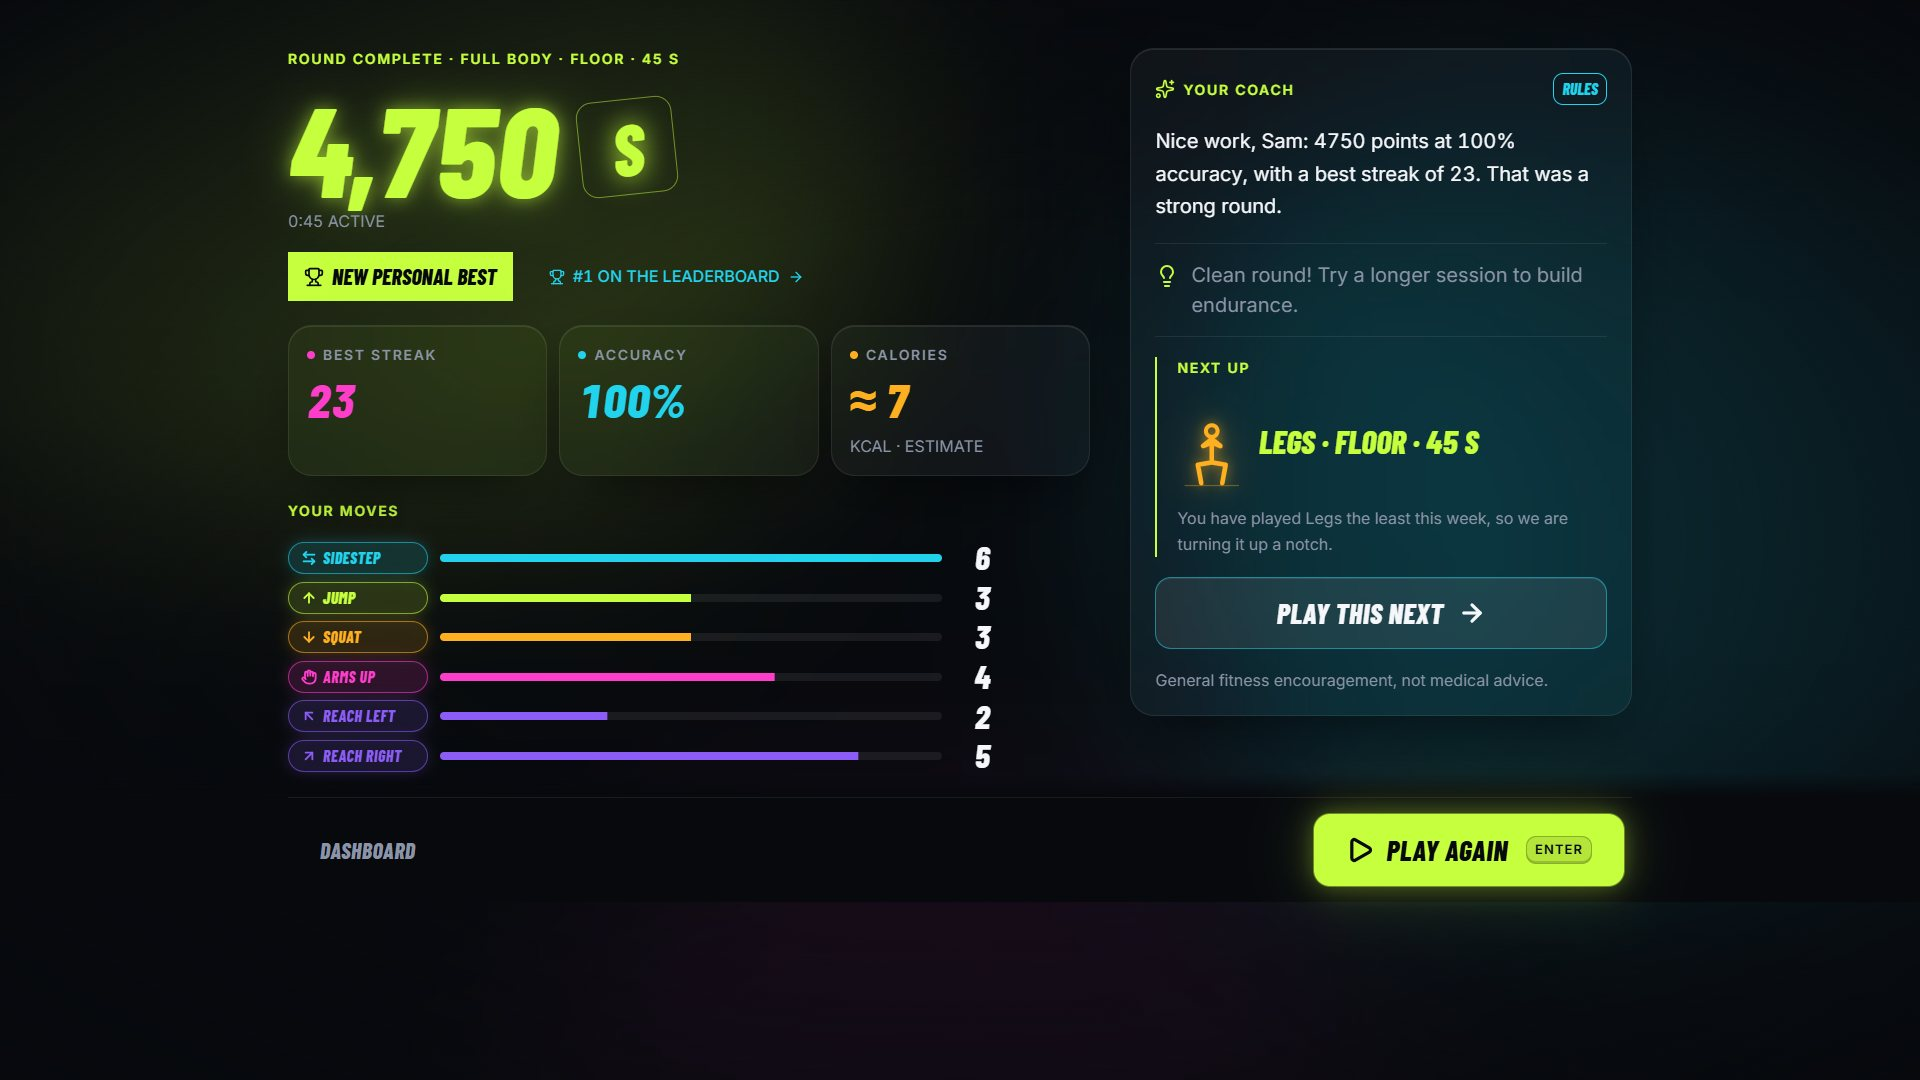
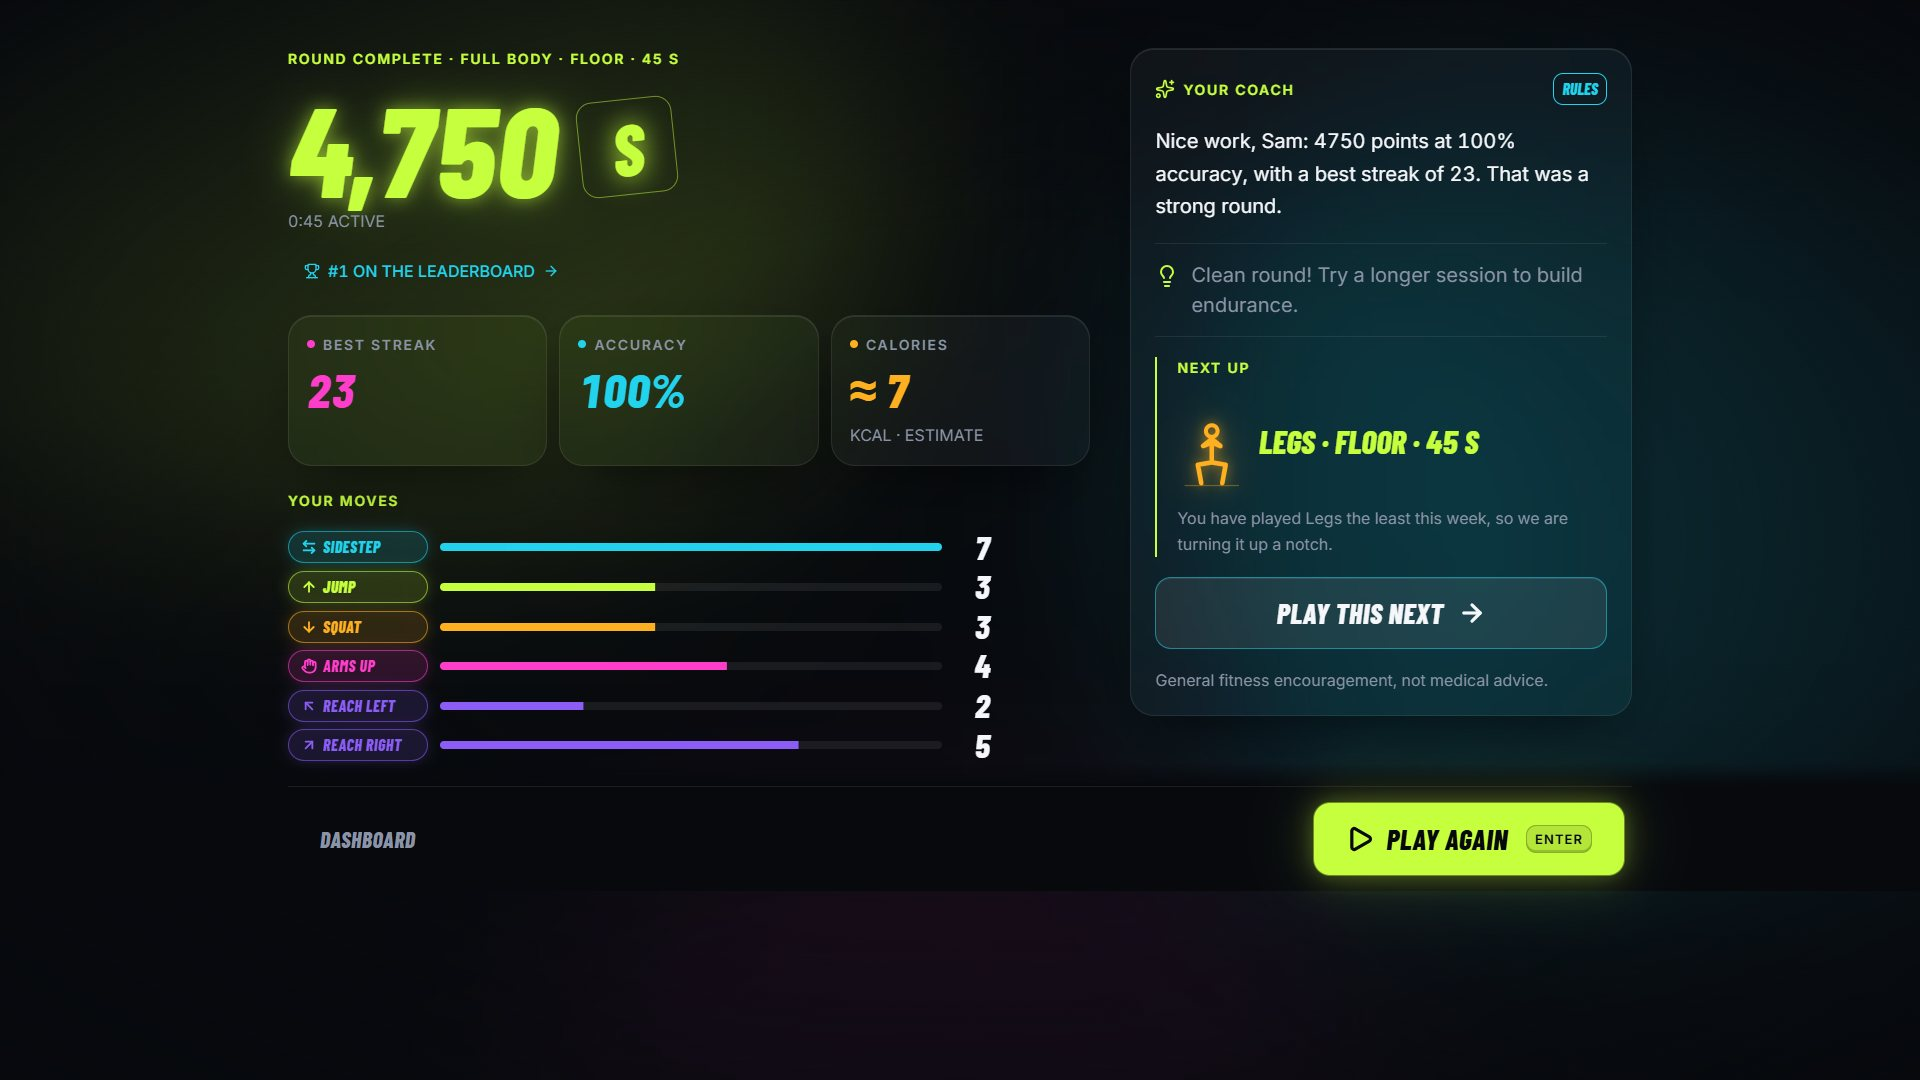
Screenshots: select, results, dashboard retaken after #41

diff --git a/docs/SUBMISSION.md b/docs/SUBMISSION.md
@@ -98,7 +98,7 @@ Record on the demo laptop at `http://localhost:5173/?demo=1` with real sessions 
 
 ## Screenshots
 
-Real captures at 1920×1080 from `main` (5a85969), in [docs/submission/](submission/), ready to upload. All are from `http://localhost:5173/?demo=1&store=local` (the 45 s demo level) played **with the keyboard** by a script, so no camera preview appears; the ghost is an earlier, weaker run of the same level.
+Real captures at 1920×1080 from `main` (5a85969 and bb17780), in [docs/submission/](submission/), ready to upload. All are from `http://localhost:5173/?demo=1&store=local` (the 45 s demo level) played **with the keyboard** by a script, so no camera preview appears; the ghost is an earlier, weaker run of the same level.
 
 | File | Screen | Shows |
 | --- | --- | --- |
@@ -119,4 +119,5 @@ Real captures at 1920×1080 from `main` (5a85969), in [docs/submission/](submiss
 **Retake before submitting if you can:**
 - One shot with the **camera**, showing the preview and skeleton in the corner, and `?dev=pose` (landmarks and threshold lines). This machine has no camera.
 - The leaderboard and kiosk on the **live site** after the team's real rounds: the local store holds one player, so the podium shows a single name.
-- The dashboard after the UI fix for "1 DAYS" (QA Q11).
+
+Select, results and dashboard were retaken on `main` bb17780 after the UI fixes in #41.
